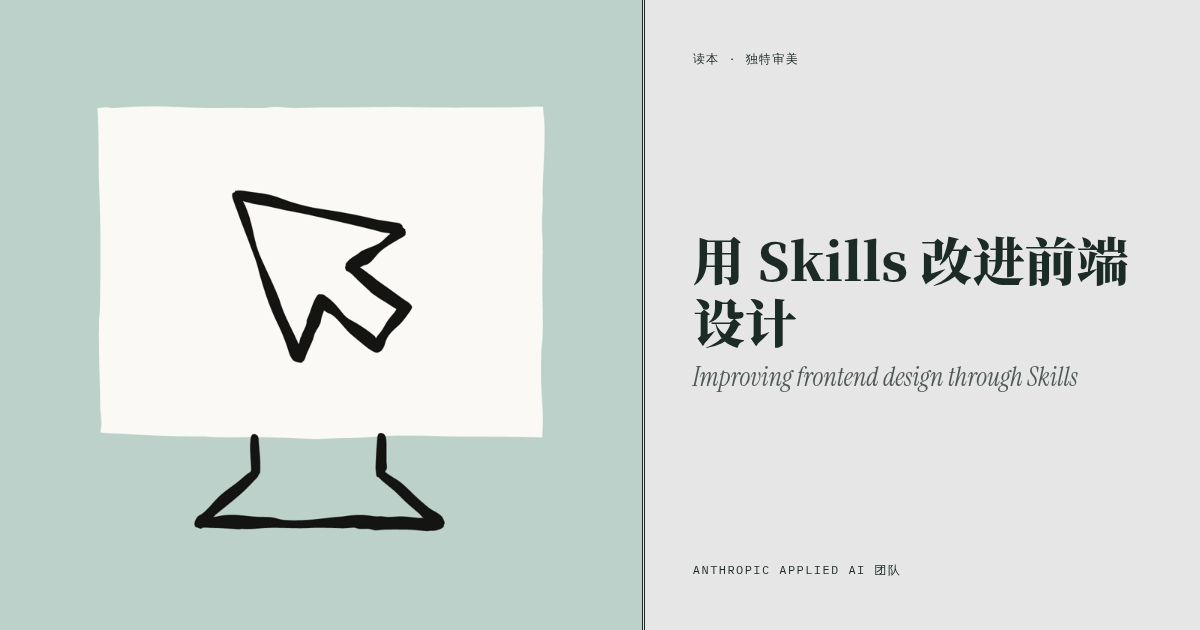
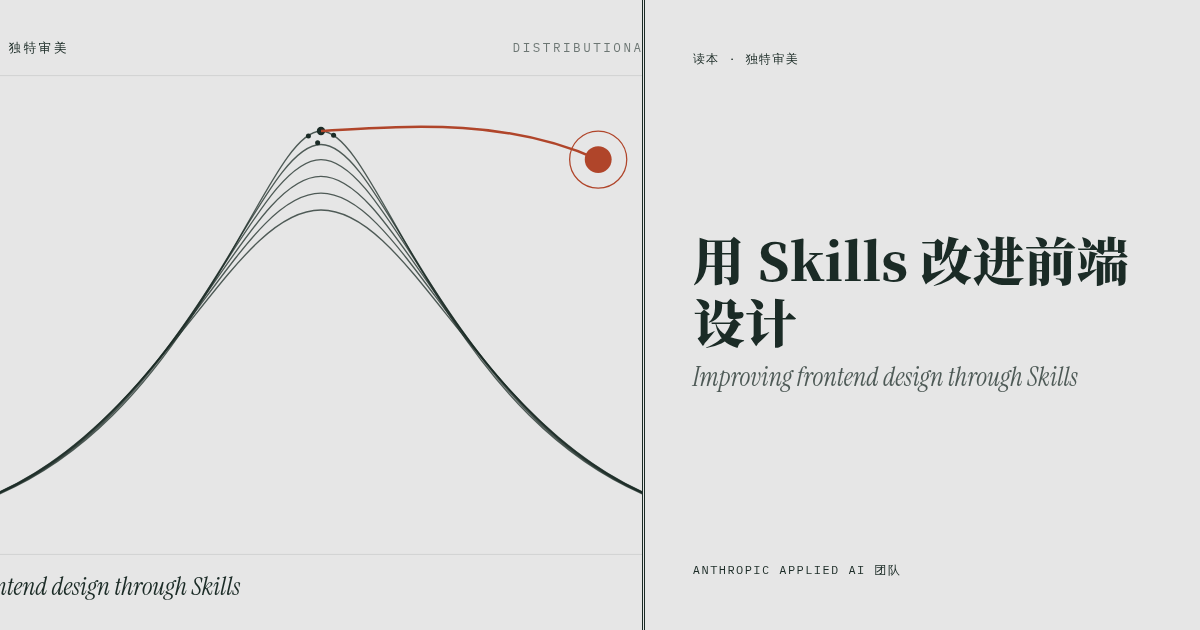
Unified self-made cover system; tint from cover accent; drop og:image

diff --git a/articles/improving-frontend-design-through-skills.html b/articles/improving-frontend-design-through-skills.html
@@ -1,7 +1,7 @@
-<!doctype html><html lang="zh-CN"><head><meta charset="utf-8"><meta name="viewport" content="width=device-width,initial-scale=1"><meta name="robots" content="noindex,nofollow"><title>用 Skills 改进前端设计 · 读本</title><link rel="stylesheet" href="../assets/style.css"></head><body class="article" style="--tint:#E5E9E7">
+<!doctype html><html lang="zh-CN"><head><meta charset="utf-8"><meta name="viewport" content="width=device-width,initial-scale=1"><meta name="robots" content="noindex,nofollow"><title>用 Skills 改进前端设计 · 读本</title><link rel="stylesheet" href="../assets/style.css"></head><body class="article" style="--tint:#F1E5E2">
 <section class="opening"><div class="t"><a class="mono" href="../index.html">← 读本 · 目录</a><div><div class="mono">No. 01 · 审美 / Skills / 提示词</div><h1>用 Skills 改进前端设计</h1><div class="en">Improving frontend design through Skills</div></div>
 <dl class="meta mono"><dt>作者</dt><dd>Anthropic Applied AI 团队</dd><dt>署名</dt><dd>Prithvi Rajasekaran, Justin Wei, Alexander Bricken 等</dd><dt>日期</dt><dd>2025（原页未标具体日期）</dd><dt>原文</dt><dd><a href="https://claude.com/blog/improving-frontend-design-through-skills">claude.com/blog ↗</a></dd></dl><a class="readorig" href="https://claude.com/blog/improving-frontend-design-through-skills" target="_blank" rel="noopener">阅读原文 →</a></div>
-<figure class="cover"><img src="../covers/improving-frontend-design-through-skills.png" alt="Improving frontend design through Skills 封面"><figcaption class="credit mono">封面图来源：<a href="https://claude.com/blog/improving-frontend-design-through-skills">Anthropic（claude.com）</a></figcaption></figure></section>
+<figure class="cover"><img src="../covers/improving-frontend-design-through-skills.svg" alt="Improving frontend design through Skills 封面"></figure></section>
 <article class="body">
 <p class="notice">深度精讲：这不是译文，而是编者按设计师视角重写的讲解，结构、例子、表格和模板都是编者自己的。想看原始论述，请点上方「阅读原文」。</p>
 <nav class="toc"><div class="mono">本篇目录</div><ol>

diff --git a/scripts/build.py b/scripts/build.py
@@ -1,20 +1,8 @@
 #!/usr/bin/env python3
-"""Build helper: fetch og:image covers, compute tint, patch article pages, render card PNGs.
+"""Build helper: read covers/<slug>.svg accent, compute tint, patch article pages, render card PNGs.
 Usage: python3 scripts/build.py [slug ...]   (no args = all articles)"""
-import json, re, sys, math, subprocess, urllib.request, pathlib, colorsys
-from urllib.parse import urlparse
-from PIL import Image
+import json, re, sys, math, subprocess, pathlib
 ROOT = pathlib.Path(__file__).resolve().parent.parent
-UA = {"User-Agent": "Mozilla/5.0"}
-
-def get(url):
-    return urllib.request.urlopen(urllib.request.Request(url, headers=UA), timeout=30).read()
-
-def og_image(page):
-    html = get(page).decode("utf-8", "ignore")
-    for p in ("og:image", "twitter:image"):
-        m = re.search(r'<meta[^>]+(?:property|name)="%s"[^>]+content="([^"]+)"' % p, html)
-        if m: return m.group(1)
 
 # --- OKLCH helpers ---
 def srgb_to_lin(c): c/=255; return c/12.92 if c<=0.04045 else ((c+0.055)/1.055)**2.4
@@ -37,21 +25,6 @@ def oklch_to_hex(L,C,H):
     g=-1.2684380046*l+2.6097574011*m-0.3413193965*s
     b=-0.0041960863*l-0.7034186147*m+1.7076147010*s
     return "#%02X%02X%02X"%tuple(lin_to_srgb(x) for x in (r,g,b))
-
-def dominant(path):
-    im=Image.open(path).convert("RGB"); im.thumbnail((200,200))
-    q=im.quantize(colors=8, method=Image.Quantize.MEDIANCUT); pal=q.getpalette()
-    best=None
-    for count,idx in sorted(q.getcolors(), reverse=True):
-        r,g,b=pal[idx*3:idx*3+3]; L,C,H=rgb_to_oklch(r,g,b)
-        score=count*(0.3+min(C,0.2)*5)   # prefer frequent AND chromatic
-        if best is None or score>best[0]: best=(score,(r,g,b),C,H)
-    return best[1],best[2],best[3]
-
-def tint_for(path):
-    rgb,C,H=dominant(path)
-    c=min(0.015, C*0.15) if C>0.02 else 0.004
-    return "#%02X%02X%02X"%rgb, oklch_to_hex(0.93,c,H)
 
 def render_card(e):
     html=ROOT/"scripts"/"_card.html"
@@ -86,20 +59,16 @@ def main():
     want=set(sys.argv[1:])
     for e in data:
         if want and e["slug"] not in want: continue
-        if not e.get("cover_source_url"):
-            try: e["cover_source_url"]=og_image(e["source"])
-            except Exception as x: print("og:image fetch failed", e["slug"], x)
-        if e.get("cover_source_url"):
-            dst=ROOT/"covers"/f'{e["slug"]}.png'
-            if not dst.exists():
-                raw=get(e["cover_source_url"]); im=Image.open(__import__("io").BytesIO(raw)).convert("RGB")
-                im.thumbnail((1600,1600)); im.save(dst,optimize=True)
-            e["cover"]=f'covers/{e["slug"]}.png'
-            e.setdefault("cover_credit", urlparse(e["source"]).netloc.replace("www.",""))
-            e["dominant"],e["tint"]=tint_for(dst)
-        else:
-            e["cover"]=f'covers/{e["slug"]}.svg'   # self-made fallback
+        svg=ROOT/"covers"/f'{e["slug"]}.svg'
+        if not svg.exists(): sys.exit(f"missing {svg}: draw it per the cover system in README")
+        m=re.search(r'data-accent="(#[0-9A-Fa-f]{6})"', svg.read_text())
+        if not m: sys.exit(f"{svg} needs data-accent=\"#RRGGBB\" on the root <svg>")
+        acc=m.group(1).upper()
+        _,C,H=rgb_to_oklch(*(int(acc[k:k+2],16) for k in (1,3,5)))
+        e["cover"]=f'covers/{e["slug"]}.svg'; e["accent"]=acc
+        e["tint"]=oklch_to_hex(0.93, min(0.014, C*0.15) if C>0.02 else 0.004, H)
+        for k in ("cover_source_url","cover_credit","dominant"): e.pop(k,None)
         patch_article(e); render_card(e)
-        print(e["slug"], e.get("dominant"), e.get("tint"))
+        print(e["slug"], acc, e["tint"])
     (ROOT/"articles.json").write_text(json.dumps(data,ensure_ascii=False,indent=2)+"\n")
 main()

diff --git a/README.md b/README.md
@@ -8,16 +8,21 @@ Zhu 的私人中文阅读室（noindex，robots.txt 禁止抓取）。
 - `covers/<slug>.svg`：原创封面（不要外链原站图片）
 - `assets/style.css`：共享样式
 
+## 封面系统（v1，所有封面统一）
+全部封面为编者原创 SVG，不使用原站图片。规格：
+- 画布 1200×750，底色 `#E6E6E6`；四条网格线（x=60 / x=1140，y=90 / y=660），墨色 `#1B2B26`，不透明度 0.12。
+- 顶部左：IBM Plex Mono 15px、字距 3，写 `读本 · NO.xx · 分类`；顶部右：同字体，0.6 不透明度，写本篇核心概念的英文短语（大写）。
+- 主图区（y 90–660）：抽象线描母题（line-art motif），表达这篇文章的核心观点；墨色描边 1.5–2px，不透明度约 0.75；不用照片、不用渐变、不用具象插画。
+- 每篇只用一个强调色（accent），只用在母题中最关键的一个元素上；在根元素写 `data-accent="#RRGGBB"`。强调色选中等明度、饱和度适中的颜色，篇与篇之间换色相。
+- 底部左：Instrument Serif 斜体 30px 写英文原标题；底部右：Plex Mono 14px，0.6 不透明度，写出版方。
+- 例：No.01「分布收敛」，一组曲线向中心收拢，一条锈红色（`#B0452A`）的线逃离中心。
+
 ## 每日新增一篇
-1. 复制现有文章页为 `articles/<slug>.html`，替换开篇信息和正文。正文统一采用「深度精讲」风格：不翻译、不逐句转述原文，而是用编者自己的结构和语言讲透原文的观点与技巧，加入自己的例子、对照表、可直接使用的模板或清单；设计术语保留英文括注；英文原句最多引用几句很短的，并注明出处；保留醒目的「阅读原文」按钮。编者点评写成 `<div class="note"><p>…</p></div>`。
-2. 在 `articles.json` 追加一项：slug、title_zh、title_en、author、author_role、source、date、added、tags、dek，以及必填的 category（`独特审美` / `AI 设计工作流` / `提示词与 Skill`）。可选 `cover_credit`（出版方名称，默认取域名）。
-3. 运行 `python3 scripts/build.py <slug>`（需要 Pillow 和 google-chrome）。脚本会：
-   - 抓取原文的 og:image（没有就取 twitter:image），下载到 `covers/<slug>.png`，不外链；
-   - 写入 `cover`、`cover_source_url`、`cover_credit`、`dominant`（封面主色），以及 `tint`（OKLCH L=0.93、C≤0.015 的极淡底色）；
-   - 改写文章页：给 body 加上 `--tint`，生成开篇封面 figure 和「封面图来源」署名；
-   - 用真实封面渲染聊天卡片 `cards/<slug>.png`（1200×630）。
-   原文没有封面时，退回使用自制的 `covers/<slug>.svg`（需手动提供），且不加底色。
-4. 打开本地页面检查，然后提交并 push 到 main，GitHub Pages 会自动更新。
+1. 复制现有文章页为 `articles/<slug>.html`，替换开篇信息和正文。正文统一采用「深度精讲」风格：不翻译、不逐句转述原文，用编者自己的结构和语言讲透原文的观点与技巧，加入自己的例子、对照表、可直接使用的模板或清单；设计术语保留英文括注；英文原句最多引用几句很短的，并注明出处；保留醒目的「阅读原文」按钮。编者点评写成 `<div class="note"><p>…</p></div>`。
+2. 按上面的封面系统画 `covers/<slug>.svg`（记得写 `data-accent`）。
+3. 在 `articles.json` 追加一项：slug、title_zh、title_en、author、author_role、source、date、added、tags、dek，以及必填的 category（`独特审美` / `AI 设计工作流` / `提示词与 Skill`）。
+4. 运行 `python3 scripts/build.py <slug>`（需要 google-chrome）。脚本读取 SVG 的强调色，写入 `cover`、`accent`，以及 `tint`（同色相，OKLCH L=0.93、C≤0.014 的极淡阅读底色）；给文章页加上 `--tint` 和开篇封面；渲染聊天卡片 `cards/<slug>.png`（1200×630）。
+5. 本地检查后提交并 push 到 main，GitHub Pages 会自动更新。
 
 首页保持中性灰 `#E6E6E6`，只有文章页使用 tint 底色。
 
